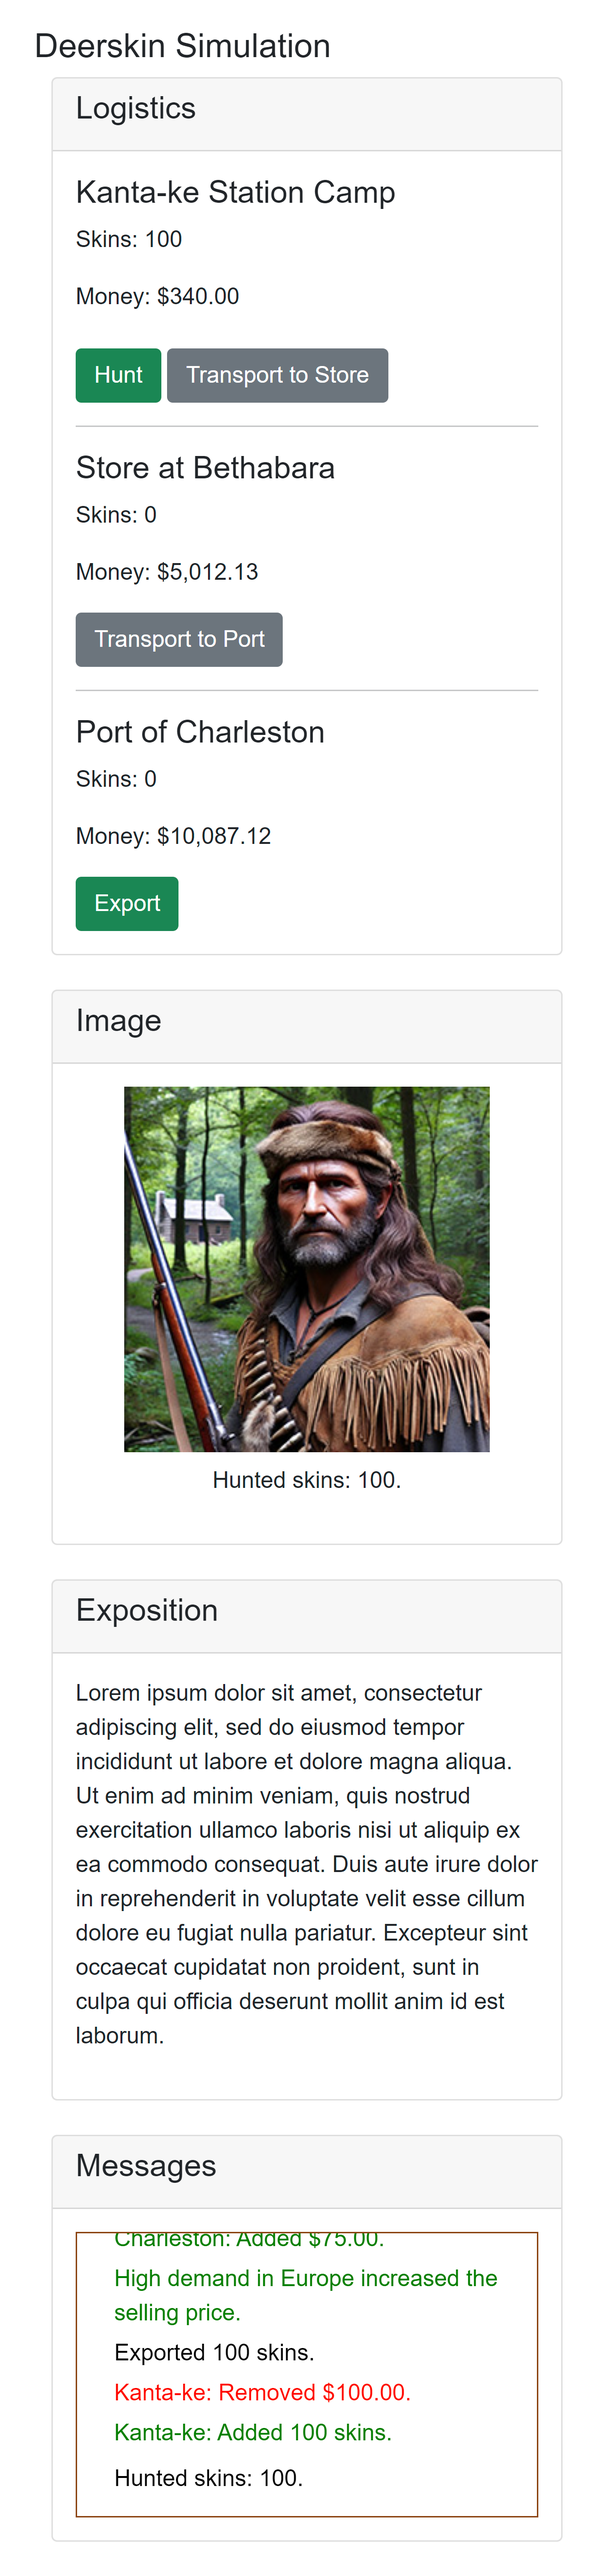
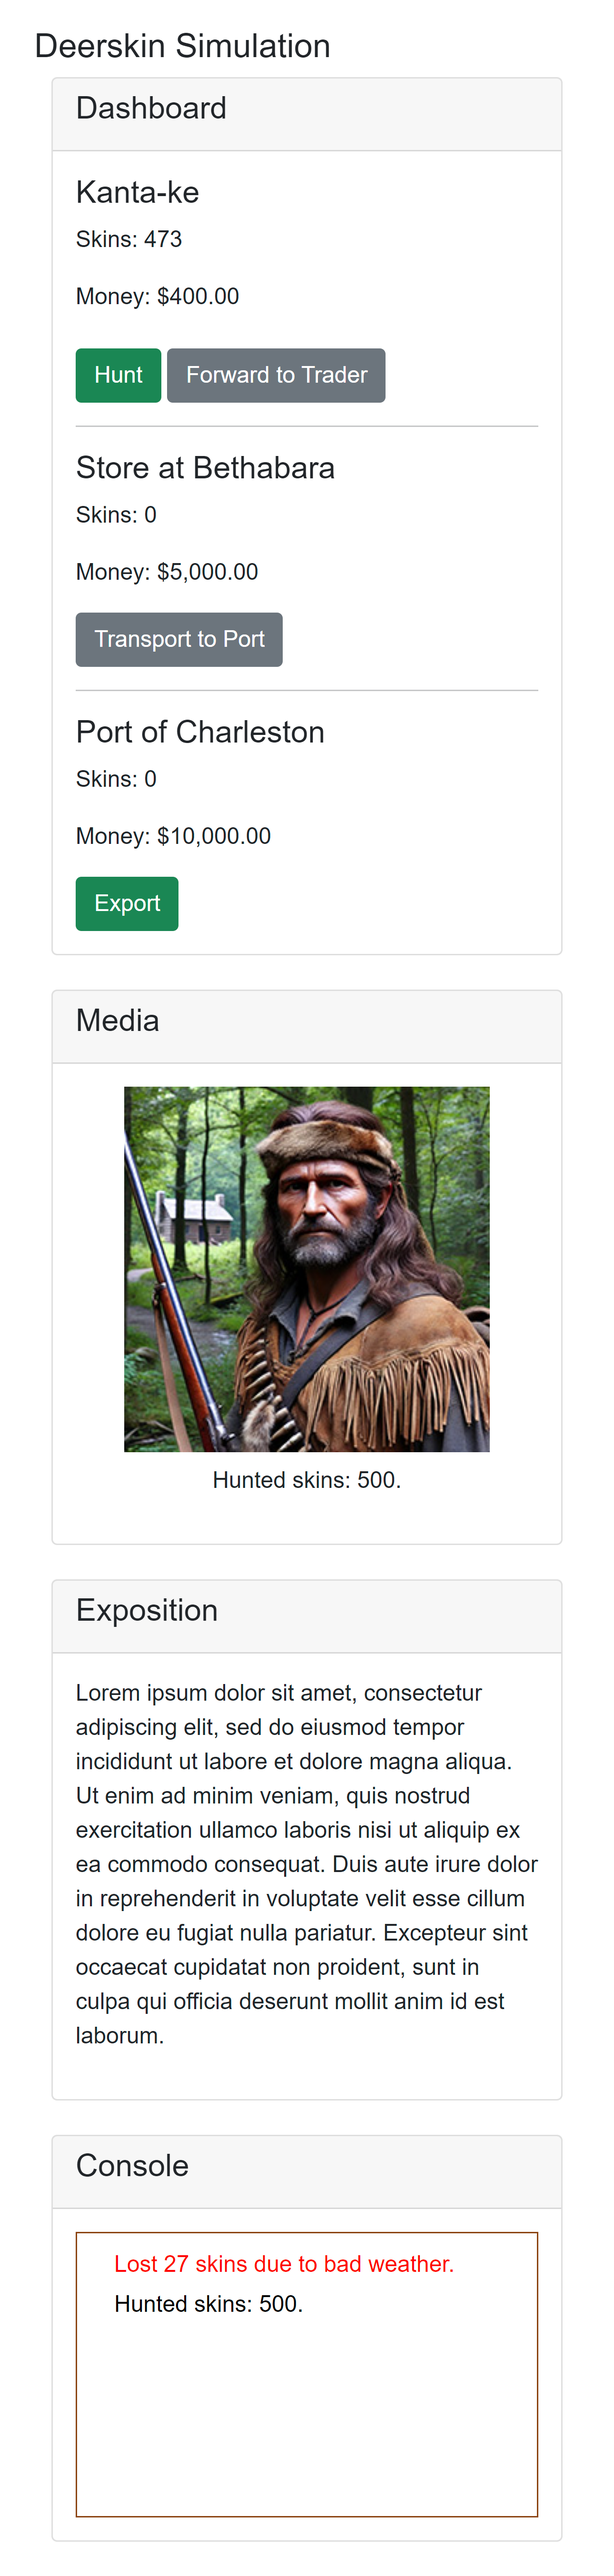
UI titles updated

diff --git a/DeerskinSimulation/Resources/UIStr.Designer.cs b/DeerskinSimulation/Resources/UIStr.Designer.cs
@@ -97,7 +97,7 @@ namespace DeerskinSimulation.Resources {
         }
         
         /// <summary>
-        ///   Looks up a localized string similar to Image.
+        ///   Looks up a localized string similar to Media.
         /// </summary>
         public static string ImageTitle {
             get {
@@ -106,7 +106,7 @@ namespace DeerskinSimulation.Resources {
         }
         
         /// <summary>
-        ///   Looks up a localized string similar to Logistics.
+        ///   Looks up a localized string similar to Dashboard.
         /// </summary>
         public static string LogisticsTitle {
             get {
@@ -115,7 +115,7 @@ namespace DeerskinSimulation.Resources {
         }
         
         /// <summary>
-        ///   Looks up a localized string similar to Messages.
+        ///   Looks up a localized string similar to Console.
         /// </summary>
         public static string MessagesTitle {
             get {
